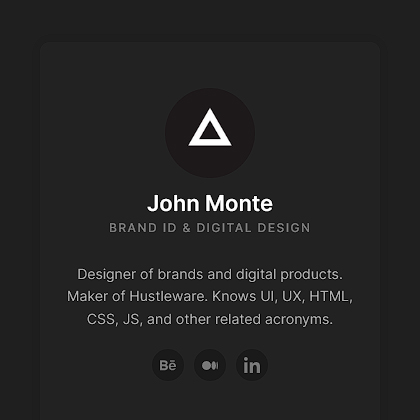
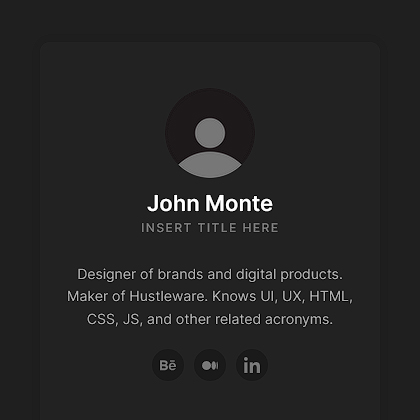
202303250257

Changed region(s): [[0.4024, 0.2476, 0.5881, 0.4333], [0.2476, 0.5262, 0.7429, 0.5571]]

diff --git a/index.html b/index.html
@@ -3,7 +3,7 @@
 <head>
   <meta charset="utf-8">
   <meta http-equiv="X-UA-Compatible" content="IE=edge,chrome=1">
-  <title>John Monte — Brand Identity & Digital Design</title>
+  <title>John Monte — Insert Title Here</title>
   <meta name="description" content="Designer of brands and digital products, John Monte runs an independent design studio in the Philippines.">
   <meta name="google-site-verification" content="igdz_D1tNh9YsWTDdiY5Sbikw5Seko8ssdD7Ap90bao" />
   <meta name="viewport" content="width=device-width, initial-scale=1">
@@ -36,9 +36,9 @@
 
 <div class="card" data-state="#about">
   <div class="card-header">
-    <img class="card-avatar" src="logo.png" />
+    <img class="card-avatar" src="avatar.png" />
     <h1 class="card-fullname">John Monte</h1>
-    <h2 class="card-jobtitle">Brand ID & Digital Design</h2>
+    <h2 class="card-jobtitle">Insert title here</h2>
   </div>
   <div class="card-main">
     <div class="card-section is-active" id="about">

diff --git a/styles.css b/styles.css
@@ -128,8 +128,8 @@ a:hover {
 }
 
 .card-avatar {
-  width: 90px;
-  height: 90px;
+  width: 80px;
+  height: 80px;
   border-radius: 50%;
   -o-object-position: center;
      object-position: center;
